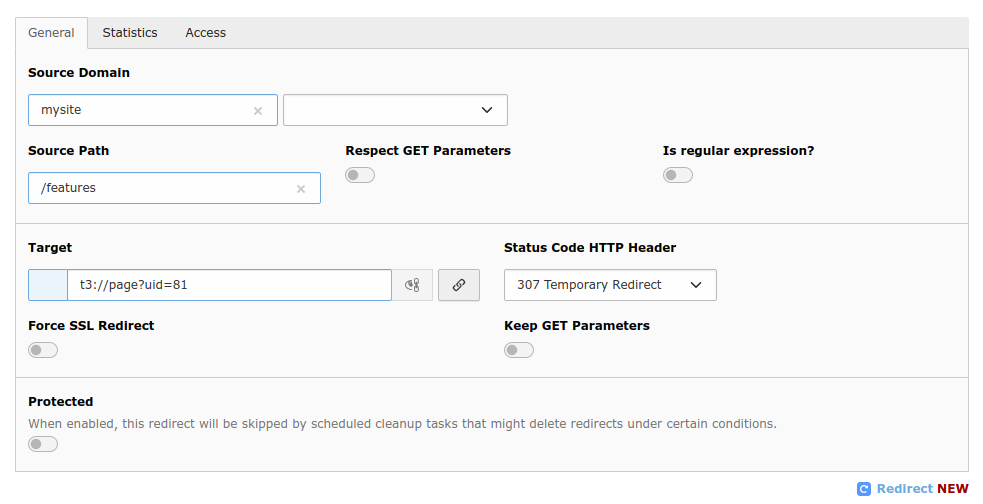
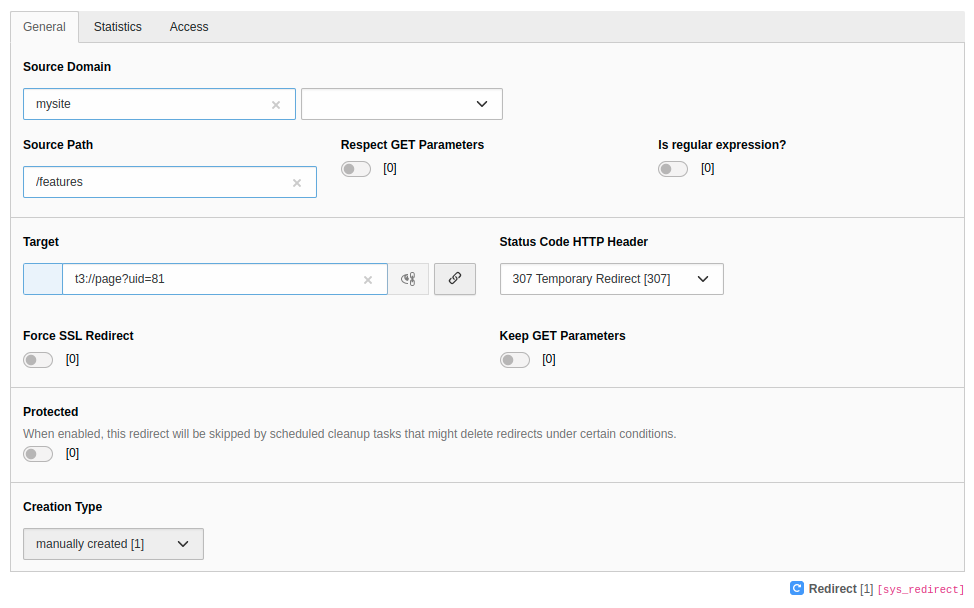
[FEATURE] Differentiate redirects based on creation type
A new field in the redirect table allows to distinguish
between redirects created automatically because the slug
changed and the ones created by editors in the backend
module.

A new filter in the backend module based on this field
helps to administrate the records better.

Resolves: #97309
Releases: main

diff --git a/Resources/Private/Templates/Management/Overview.html b/Resources/Private/Templates/Management/Overview.html
@@ -255,6 +255,15 @@
                     </f:for>
                 </select>
             </div>
+            <div class="col">
+                <label for="demand-target-automatically-created" class="form-label"><f:translate key="LLL:EXT:redirects/Resources/Private/Language/locallang_module_redirect.xlf:filter.creationType"/></label>
+                <select id="demand-target-automatically-created" class="form-select" name="demand[creation_type]" data-on-change="submit">
+                    <option value="-1"><f:translate key="LLL:EXT:redirects/Resources/Private/Language/locallang_module_redirect.xlf:filter.creationType.showAll"/></option>
+                    <f:for each="{creationTypes}" key="creationType" as="label">
+                        <option value="{creationType}" {f:if(condition: '{demand.creationType} == {creationType}', then: 'selected')}>{f:translate(key: label, default: label)}</option>
+                    </f:for>
+                </select>
+            </div>
             <f:if condition="{showHitCounter}">
                 <div class="form-check form-switch">
                     <label class="form-check-label" for="demand-never-hit">

diff --git a/Classes/Repository/Demand.php b/Classes/Repository/Demand.php
@@ -32,60 +32,26 @@ class Demand
     protected const DEFAULT_SECONDARY_ORDER_FIELD = 'source_host';
     protected const ORDER_FIELDS = ['source_host', 'source_path', 'lasthiton', 'hitcount', 'protected'];
 
-    /**
-     * @var string
-     */
-    protected $orderField;
-
-    /**
-     * @var string
-     */
-    protected $orderDirection;
+    protected string $orderField;
+    protected string $orderDirection;
 
     /**
      * @var string[]
      */
-    protected $sourceHosts;
-
-    /**
-     * @var string
-     */
-    protected $sourcePath;
-
-    /**
-     * @var string
-     */
-    protected $target;
+    protected array $sourceHosts;
+    protected string $sourcePath;
+    protected string $target;
 
     /**
      * @var int[]
      */
-    protected $statusCodes = [];
-
-    /**
-     * @var int
-     */
-    protected $limit = 50;
-
-    /**
-     * @var int
-     */
-    protected $page;
-
-    /**
-     * @var string
-     */
-    protected $secondaryOrderField;
-
-    /**
-     * @var int
-     */
-    private $maxHits;
-
-    /**
-     * @var \DateTimeInterface|null
-     */
-    private $olderThan;
+    protected array $statusCodes = [];
+    protected int $limit = 50;
+    protected int $page;
+    protected string $secondaryOrderField;
+    private int $maxHits;
+    private ?\DateTimeInterface $olderThan;
+    protected ?int $creationType = -1;
 
     public function __construct(
         int $page = 1,
@@ -96,7 +62,8 @@ class Demand
         string $target = '',
         array $statusCodes = [],
         int $maxHits = 0,
-        \DateTimeInterface $olderThan = null
+        \DateTimeInterface $olderThan = null,
+        ?int $creationType = -1
     ) {
         $this->page = $page;
         if (!in_array($orderField, self::ORDER_FIELDS, true)) {
@@ -114,6 +81,7 @@ class Demand
         $this->secondaryOrderField = $this->orderField === self::DEFAULT_ORDER_FIELD ? self::DEFAULT_SECONDARY_ORDER_FIELD : '';
         $this->maxHits = $maxHits;
         $this->olderThan = $olderThan;
+        $this->creationType = $creationType;
     }
 
     public static function fromRequest(ServerRequestInterface $request): self
@@ -132,7 +100,8 @@ class Demand
         $statusCodes = $statusCode > 0 ? [$statusCode] : [];
         $target = $demand['target'] ?? '';
         $maxHits = (int)($demand['max_hits'] ?? 0);
-        return new self($page, $orderField, $orderDirection, $sourceHosts, $sourcePath, $target, $statusCodes, $maxHits);
+        $creationType = isset($demand['creation_type']) ? ((int)$demand['creation_type']) : -1;
+        return new self($page, $orderField, $orderDirection, $sourceHosts, $sourcePath, $target, $statusCodes, $maxHits, null, $creationType);
     }
 
     public static function fromCommandInput(InputInterface $input): self
@@ -148,7 +117,10 @@ class Demand
             $input->hasOption('hitCount') ? (int)$input->getOption('hitCount') : 0,
             $input->getOption('days')
                 ? new \DateTimeImmutable($input->getOption('days') . ' days ago')
-                : new \DateTimeImmutable('90 days ago')
+                : new \DateTimeImmutable(
+                    '90 days ago'
+                ),
+            $input->getOption('creationType') !== null ? (int)($input->getOption('creationType')) : null
         );
     }
 
@@ -227,6 +199,11 @@ class Demand
         return $this->limit;
     }
 
+    public function getCreationType(): ?int
+    {
+        return $this->creationType;
+    }
+
     public function getFirstStatusCode(): int
     {
         return $this->statusCodes[0] ?? 0;
@@ -257,13 +234,19 @@ class Demand
         return $this->target !== '';
     }
 
+    public function hasCreationType(): bool
+    {
+        return $this->creationType !== null && $this->creationType !== -1;
+    }
+
     public function hasConstraints(): bool
     {
         return $this->hasSourcePath()
             || $this->hasSourceHosts()
             || $this->hasTarget()
             || $this->hasStatusCodes()
-            || $this->hasMaxHits();
+            || $this->hasMaxHits()
+            || $this->hasCreationType();
     }
 
     /**
@@ -299,6 +282,9 @@ class Demand
         }
         if ($this->hasMaxHits()) {
             $parameters['max_hits'] = $this->getMaxHits();
+        }
+        if ($this->hasCreationType()) {
+            $parameters['creation_type'] = $this->getCreationType();
         }
         return $parameters;
     }

diff --git a/Classes/Repository/RedirectRepository.php b/Classes/Repository/RedirectRepository.php
@@ -114,6 +114,13 @@ class RedirectRepository
             );
         }
 
+        if ($demand->hasCreationType()) {
+            $constraints[] = $queryBuilder->expr()->eq(
+                'creation_type',
+                $queryBuilder->createNamedParameter($demand->getCreationType(), \PDO::PARAM_INT)
+            );
+        }
+
         if (!empty($constraints)) {
             $queryBuilder->where(...$constraints);
         }
@@ -121,29 +128,46 @@ class RedirectRepository
     }
 
     /**
-     * Used for the filtering in the backend
+     * Get all used hosts
      */
     public function findHostsOfRedirects(): array
     {
-        return $this->getQueryBuilder()
-            ->select('source_host as name')
-            ->from('sys_redirect')
-            ->orderBy('source_host')
-            ->groupBy('source_host')
-            ->executeQuery()
-            ->fetchAllAssociative();
+        return $this->getGroupedRows('source_host', 'name');
     }
 
     /**
-     * Used for the filtering in the backend
+     * Get all used status codes
      */
     public function findStatusCodesOfRedirects(): array
     {
+        return $this->getGroupedRows('target_statuscode', 'code');
+    }
+
+    /**
+     * Get all used creation types
+     */
+    public function findCreationTypes(): array
+    {
+        $types = [];
+        $availableTypes = $GLOBALS['TCA']['sys_redirect']['columns']['creation_type']['config']['items'];
+        foreach ($this->getGroupedRows('creation_type', 'type') as $row) {
+            foreach ($availableTypes as $availableType) {
+                if ($availableType[1] === $row['type']) {
+                    $types[$row['type']] = $availableType[0];
+                }
+            }
+        }
+
+        return $types;
+    }
+
+    protected function getGroupedRows(string $field, string $as): array
+    {
         return $this->getQueryBuilder()
-            ->select('target_statuscode as code')
+            ->select(sprintf('%s as %s', $field, $as))
             ->from('sys_redirect')
-            ->orderBy('target_statuscode')
-            ->groupBy('target_statuscode')
+            ->orderBy($field)
+            ->groupBy($field)
             ->executeQuery()
             ->fetchAllAssociative();
     }
@@ -192,6 +216,12 @@ class RedirectRepository
             $queryBuilder
                 ->andWhere($queryBuilder->expr()->like('source_path', ':path'))
                 ->setParameter('path', $demand->getSourcePath());
+        }
+
+        if ($demand->hasCreationType()) {
+            $queryBuilder->andWhere(
+                $queryBuilder->expr()->eq('creation_type', $queryBuilder->createNamedParameter($demand->getCreationType(), \PDO::PARAM_INT))
+            );
         }
 
         $queryBuilder->executeStatement();

diff --git a/Configuration/TCA/sys_redirect.php b/Configuration/TCA/sys_redirect.php
@@ -30,7 +30,7 @@ return [
     'types' => [
         '1' => [
             'showitem' => '
-                --div--;LLL:EXT:core/Resources/Private/Language/Form/locallang_tabs.xlf:general, --palette--;;source, --palette--;;targetdetails, protected,
+                --div--;LLL:EXT:core/Resources/Private/Language/Form/locallang_tabs.xlf:general, --palette--;;source, --palette--;;targetdetails, protected, creation_type,
                 --div--;LLL:EXT:redirects/Resources/Private/Language/locallang_db.xlf:tabs.redirectCount, disable_hitcount, hitcount, lasthiton, createdon,
                 --div--;LLL:EXT:core/Resources/Private/Language/Form/locallang_tabs.xlf:access, --palette--;;visibility',
         ],
@@ -252,6 +252,24 @@ return [
             'config' => [
                 'type' => 'check',
                 'renderType' => 'checkboxToggle',
+            ],
+        ],
+        'creation_type' => [
+            'label' => 'LLL:EXT:redirects/Resources/Private/Language/locallang_db.xlf:sys_redirect.creation_type',
+            'config' => [
+                'type' => 'select',
+                'renderType' => 'selectSingle',
+                'items' => [
+                    [
+                        'LLL:EXT:redirects/Resources/Private/Language/locallang_db.xlf:sys_redirect.creation_type.0',
+                        0,
+                    ],
+                    [
+                        'LLL:EXT:redirects/Resources/Private/Language/locallang_db.xlf:sys_redirect.creation_type.1',
+                        1,
+                    ],
+                ],
+                'default' => 1,
             ],
         ],
     ],

diff --git a/Classes/Controller/ManagementController.php b/Classes/Controller/ManagementController.php
@@ -75,6 +75,7 @@ class ManagementController
             'redirects' => $this->redirectRepository->findRedirectsByDemand($demand),
             'hosts' => $this->redirectRepository->findHostsOfRedirects(),
             'statusCodes' => $this->redirectRepository->findStatusCodesOfRedirects(),
+            'creationTypes' => $this->redirectRepository->findCreationTypes(),
             'demand' => $demand,
             'showHitCounter' => GeneralUtility::makeInstance(Features::class)->isFeatureEnabled('redirects.hitCount'),
             'pagination' => $this->preparePagination($demand),

diff --git a/Classes/Command/CleanupRedirectsCommand.php b/Classes/Command/CleanupRedirectsCommand.php
@@ -83,6 +83,13 @@ class CleanupRedirectsCommand extends Command
                 $this->languageService->sL('LLL:EXT:redirects/Resources/Private/Language/locallang.xlf:cleanupRedirectsCommand.label.path'),
                 null
             )
+            ->addOption(
+                'creationType',
+                't',
+                InputOption::VALUE_OPTIONAL,
+                $this->languageService->sL('LLL:EXT:redirects/Resources/Private/Language/locallang.xlf:cleanupRedirectsCommand.label.creationType'),
+                null
+            )
         ;
     }
 

diff --git a/Classes/Service/SlugService.php b/Classes/Service/SlugService.php
@@ -203,6 +203,7 @@ class SlugService implements LoggerAwareInterface
             'hitcount' => 0,
             'lasthiton' => 0,
             'disable_hitcount' => 0,
+            'creation_type' => 0,
         ];
         //todo use dataHandler to create records
         $connection = GeneralUtility::makeInstance(ConnectionPool::class)

diff --git a/Documentation/Usage/Index.rst b/Documentation/Usage/Index.rst
@@ -49,8 +49,8 @@ icon |edit_action_image|, you can **edit** the record. Clicking on a link in the
 The :guilabel:`+` sign on the top will open an edit form to create a **new
 redirect**.
 
-It is also possible to **filter**, e.g. by the *Source Path*,
-*Status Code* or only show redirect records which were "*Never hit*"
+It is also possible to **filter**, e.g. by the *Source Path*, *Status Code*,
+*Creation type* or only show redirect records which were "*Never hit*"
 (see Information on :ref:`Hit counter <hit-counter>` which must be explicitly
 enabled via Feature Toggle).
 
@@ -174,6 +174,17 @@ General tab
 
     This does not affect the redirect itself. It protects the record from
     automatic deletion (e.g. with redirects:cleanup).
+
+----
+
+.. confval:: Creation Type
+
+    :Field: creation_type
+
+    This field allows to differentiate between redirects that are created
+    automatically when the slug of a page is changed and those that are created
+    in the backend module by editors.
+
 
 Statistics tab
 ~~~~~~~~~~~~~~
